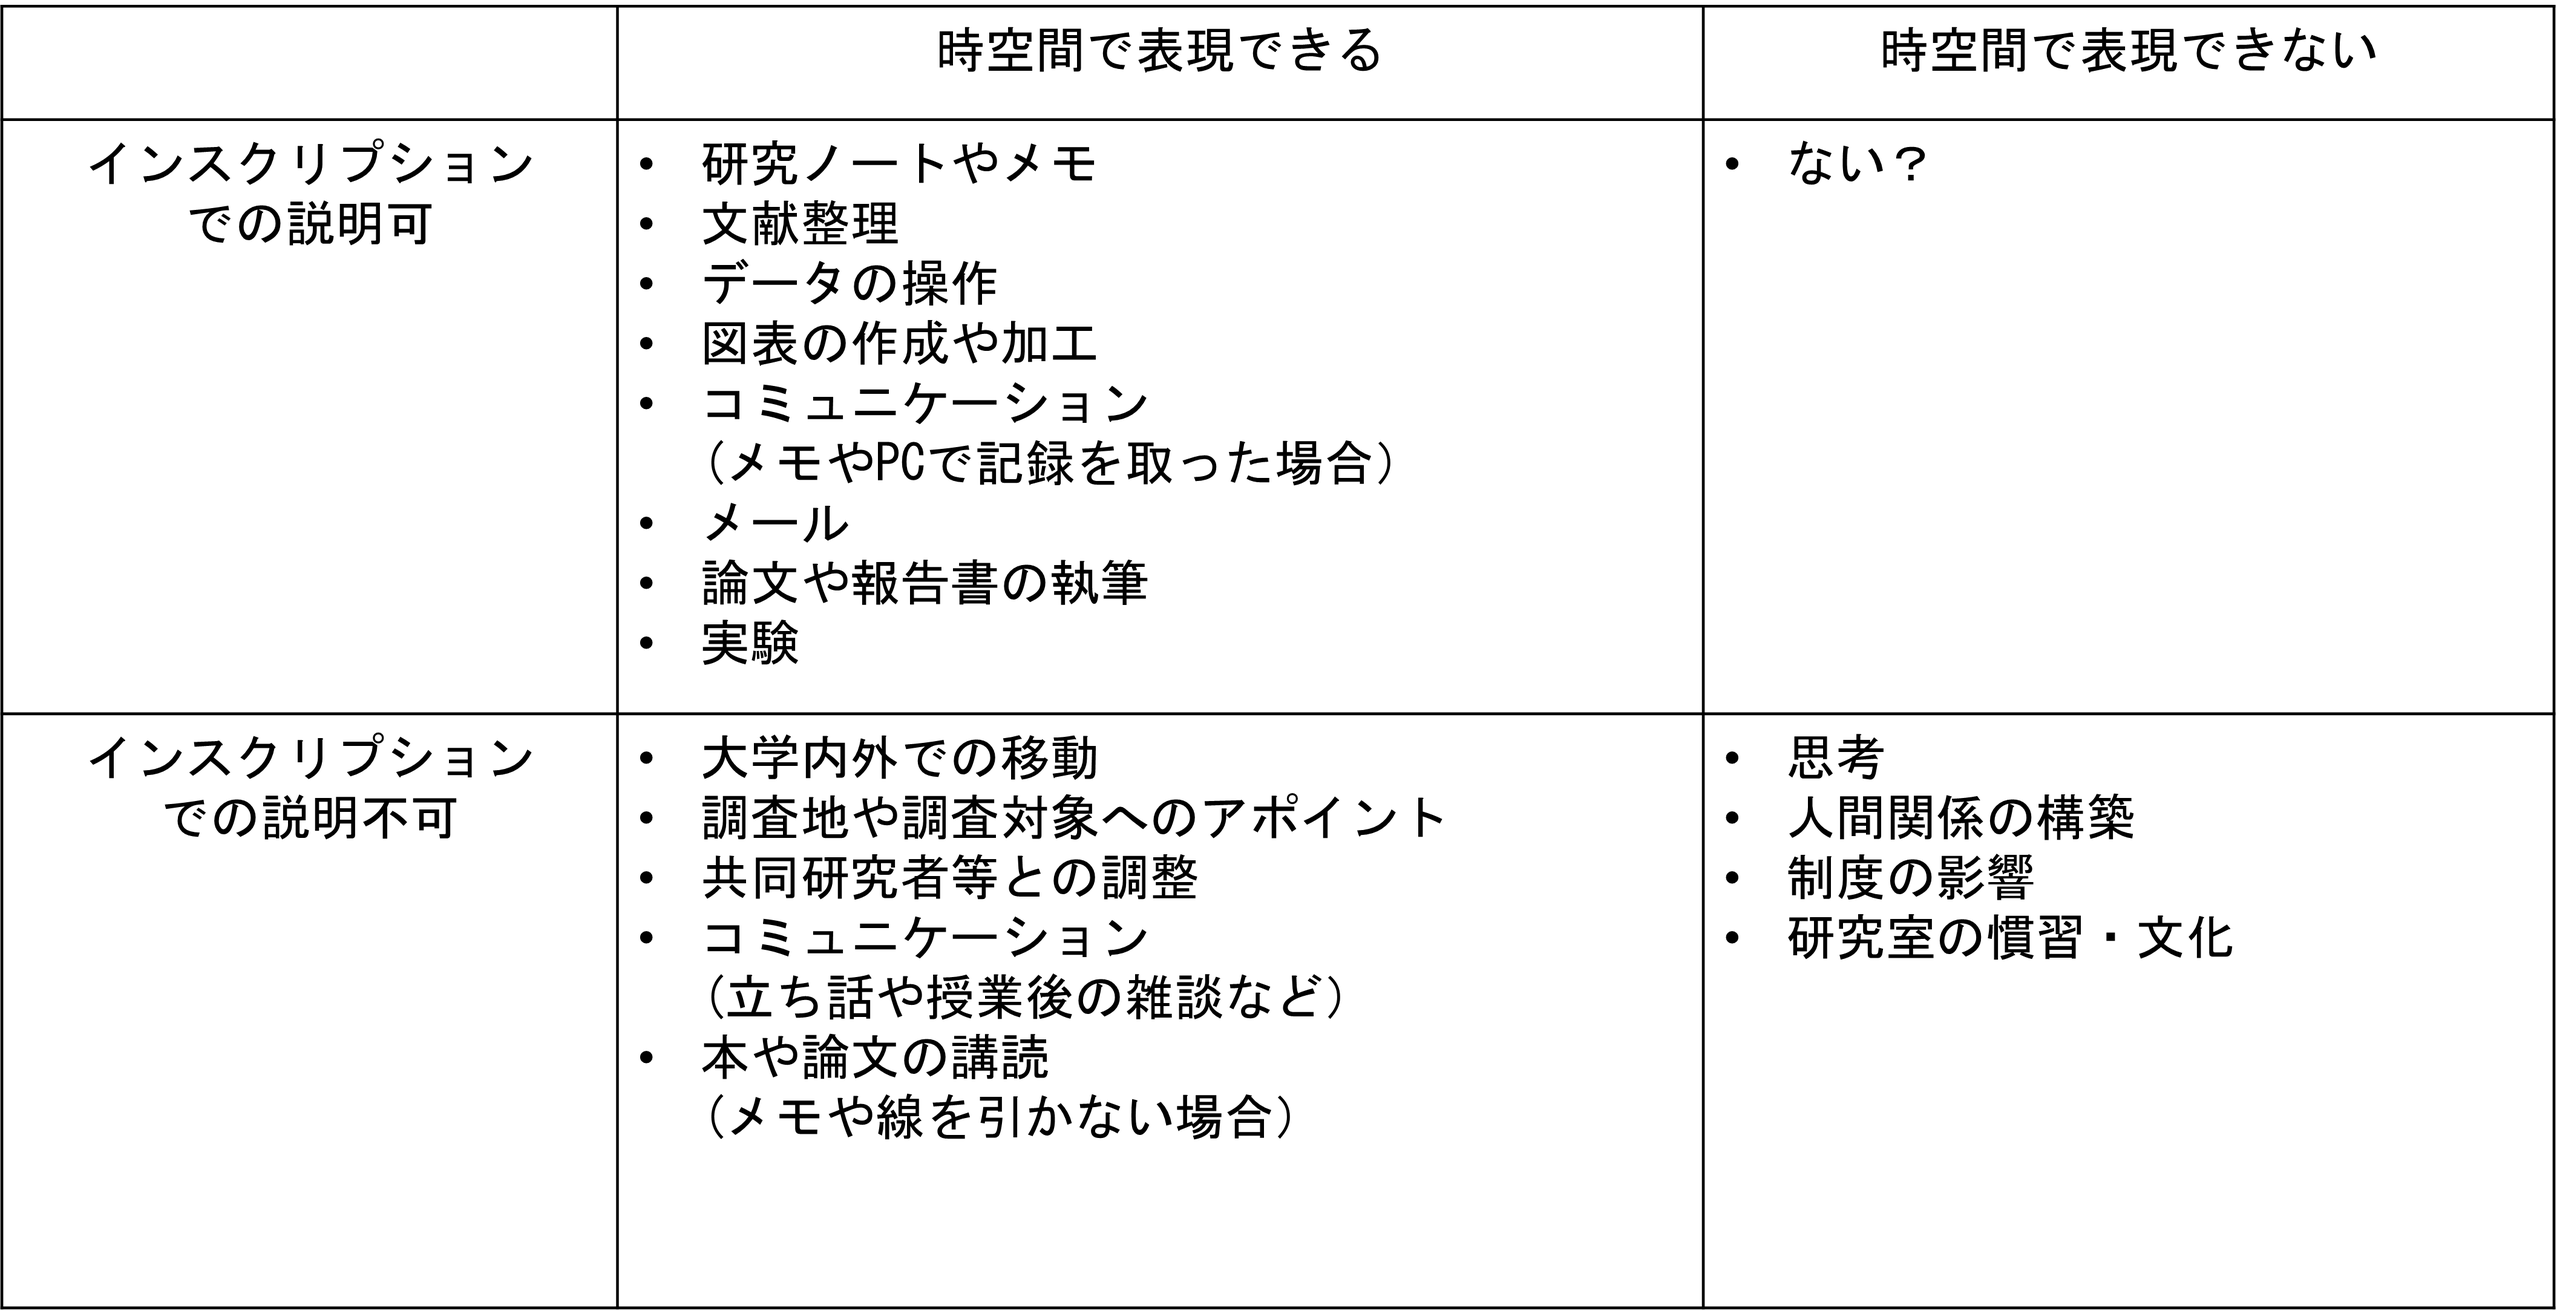
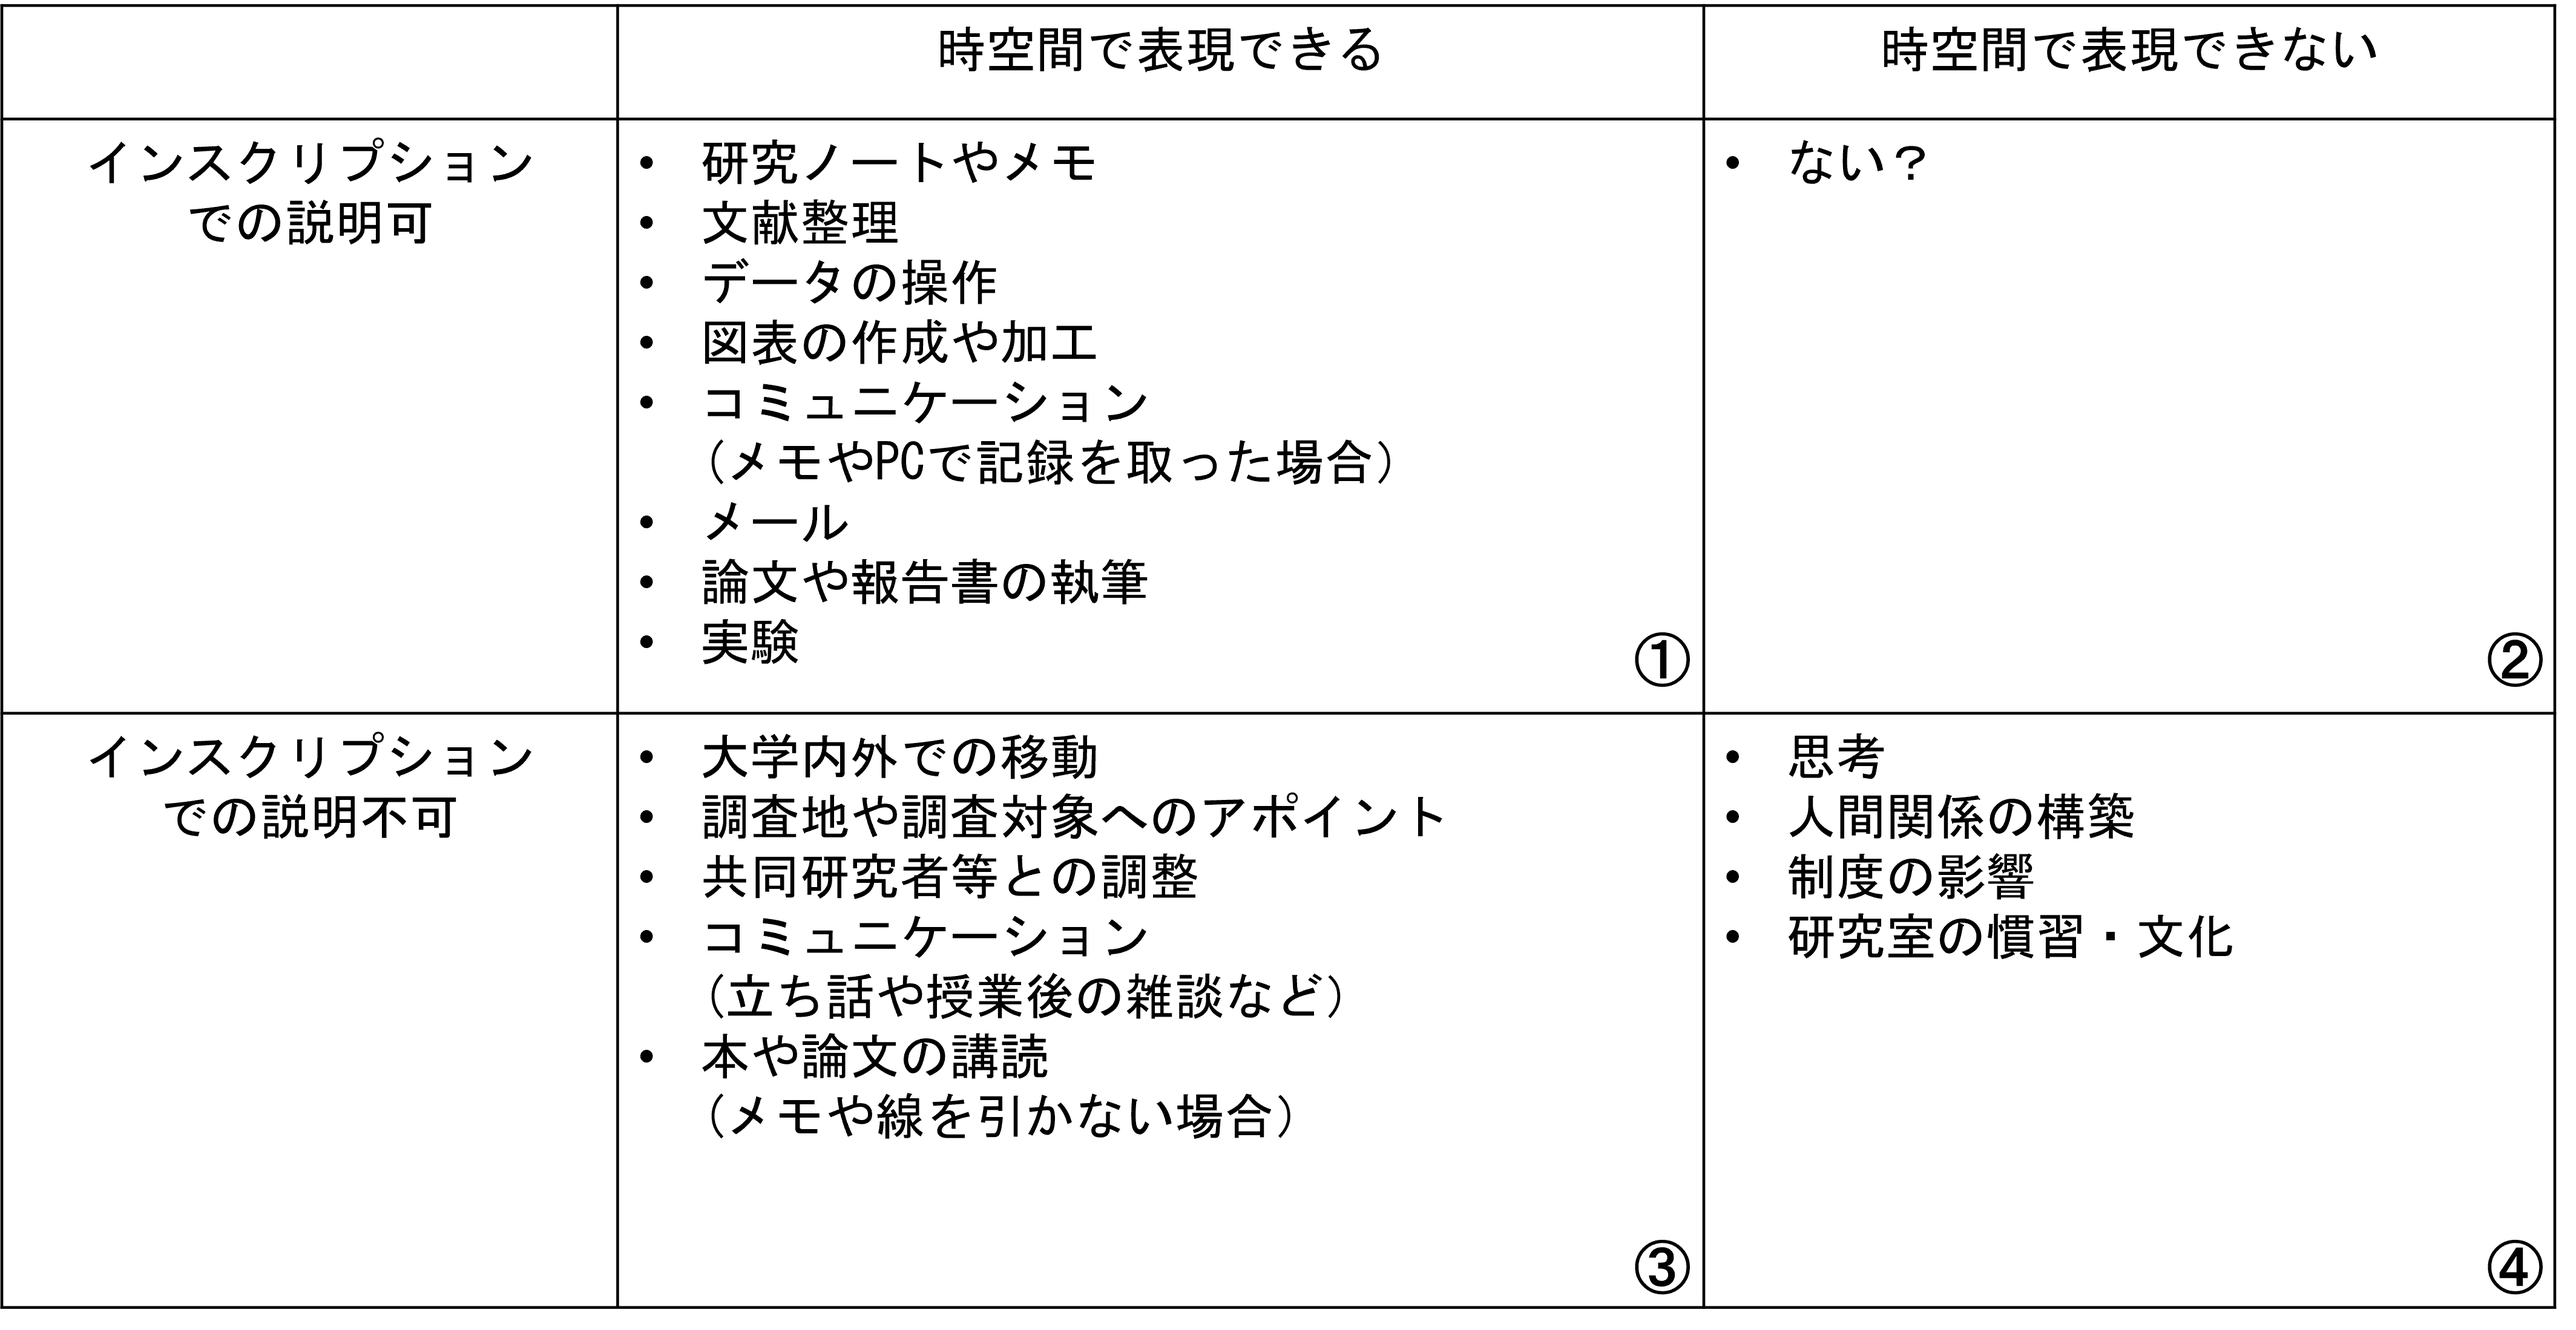
update file

diff --git a/Document/インスクリプション概念と時間地理学で説明できること.md b/Document/インスクリプション概念と時間地理学で説明できること.md
@@ -2,7 +2,7 @@
 
 ![a](../Figure/fig_インスクリプションと時間地理学の科学実践の同定に関する説明.png)
 
-## インスクリプション可と時空間表現可
+## ①
 
 - 研究ノートやメモ
 - 文献整理
@@ -13,7 +13,11 @@
 - 論文や報告書の執筆
 - 実験
 
-## インスクリプション不可と時空間表現可
+## ②
+
+実質的にない？
+
+## ③
 
 - 大学内外での移動
 - 調査地や調査対象へのアポイント
@@ -21,12 +25,9 @@
 - コミュニケーション（立ち話や授業後の雑談など）
 - 本や論文の講読（メモや線を引かない場合）
 
+痕跡がなく、追跡ができないもの。
 
-## インスクリプション可と時空間表現不可
-
-実質的にない？
-
-## インスクリプション不可と時空間表現不可
+## ④
 
 - 思考
 - 人間関係の構築
